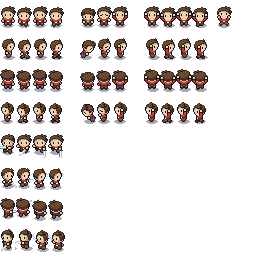
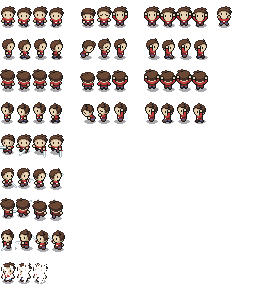
Death animation for enemies and player
missing restart game

diff --git a/Game.cpp b/Game.cpp
@@ -40,11 +40,11 @@ int main()
     coinCounter.setCharacterSize(48);  
     coinCounter.setColor(sf::Color::Red);
 
-    Player p("Lapis", 500, 12, "img/character.png");
-    auto e = make_shared<Enemy>("vila", 50, 12, "img/log.png", &p); 
+    Player p("Lapis", 50, 12, "img/character.png");
+    auto e = make_shared<Enemy>("vila", 20, 12, "img/log.png", &p); 
     enemies.push_back(e);
     for(int i = 0; i < 3; i++)
-        enemies.emplace_back(new Enemy("vila", 50, 12, "img/log.png", &p));
+        enemies.emplace_back(new Enemy("vila", 20, 12, "img/log.png", &p));
 
     std::vector<shared_ptr<Coin>> coins;
 
@@ -141,8 +141,8 @@ int main()
         std::uniform_int_distribution<> poss(0, 300);
 
         Vector2f pos = Vector2f(distr(gen), distr(gen));
-        if(poss(gen) > 292 && enemies.size() <= 25)
-            enemies.emplace_back(new Enemy("vila", 50, 12, "img/log.png", &p, pos));
+        if(poss(gen) > 297 && enemies.size() <= 8)
+            enemies.emplace_back(new Enemy("vila", 30, 20, "img/log.png", &p, pos));
 
         for(int i = enemies.size()-1; i >= 0; i--)
         {
@@ -165,7 +165,7 @@ int main()
             for(int i = 0; i < enemies.size(); i++)
             {
                 enemies[i]->draws(window);     
-                p.interact(enemies[i]);    
+                p.interact(enemies[i]);
             } 
             for(int i = coins.size()-1; i >= 0; i--)
             {

diff --git a/Entity.cpp b/Entity.cpp
@@ -11,7 +11,13 @@ using namespace std;
 
 class Entity : public AnimatedSprite
 {
+private:
+    int redTime = 0;
+    int deathState = 0;
+    int deathTime = 40;
 public:
+    int redBlinking = 20;
+    int deathOffset = 4;
     string name; 
     float atk; 
     float life;
@@ -48,15 +54,41 @@ public:
         velocity.y = 0;
     }
 
-    void hit()
+    void hit(bool knockback, int damage)
     {
-        setColor(Color::Red);
-        life-=4;
-        move(-velocity.x * 3, -velocity.y * 3);
+        if(!redTime)
+        {
+            setColor(Color::Red);
+            redTime = redBlinking;
+            life-=damage;
+        }
+        if(knockback)
+            move(-velocity.x * 1.5, -velocity.y * 1.5);
     }
 
     void update()
     {
+
+        if(life<=0)
+            animatingDeath = true;
+        if(animatingDeath )
+        {
+            if(!deathTime--)
+            {
+                setColor(Color::White);
+                setTextureRect(IntRect(deathState * 16, 32 * deathOffset, 16, 32));
+                deathState++;
+                if(deathState == 4)
+                    setVisibility(false);
+                deathTime = 5;
+            }
+            return;
+        }
+
+        if(redTime > 0)
+            redTime--;
+        else 
+            setColor(Color::White);
         AnimatedSprite::update();
         move(velocity.x * speed, velocity.y * speed);
     } 

diff --git a/AnimatedSprite.cpp b/AnimatedSprite.cpp
@@ -27,6 +27,7 @@ public:
     Vector2f velocity = Vector2f(0,0);
     int yOffset = 0;
     bool attacking = false;
+    bool animatingDeath = false;
 
 public:
     AnimatedSprite(){};
@@ -61,6 +62,8 @@ public:
 
     void animate()
     {
+        if(animatingDeath )
+            return;
         if(velocity.x == 0)
         {
             if(velocity.y == 1)
@@ -109,26 +112,23 @@ public:
         if(!attacking)
             attackState = 0;
         
-        if(attackCooldown--)
+        if(!attackTime--)
         {
-            if(!attackTime--)
+            if(attacking)
             {
-                if(attacking)
-                {
-                    attackState++;
-                    if(attackState == 3)
-                    {
-                        attackState = 0;
-                        attackCooldown = attackSpeed;
-                    }
-                }
-                else 
+                attackState++;
+                if(attackState == 3)
                     attackState = 0;
-
-                animate();
-                attackTime = attackMaxTime;
             }
+            else 
+                attackState = 0;
+
+            animate();
+            attackTime = attackSpeed;
         }
+
+        
+        
     } 
 
     void draws(sf::RenderTarget &window)

diff --git a/Player.cpp b/Player.cpp
@@ -14,7 +14,7 @@ using namespace std;
 class Player : public Entity
 {
 private:
-    int range = 45;
+    int range = 50;
 public:
     int coins = 0;
     // INHERITED ENTITY FIELDS 
@@ -27,6 +27,9 @@ public:
     {
         attackSpeed = 20;
         speed = 3;
+        atk = 10;
+        redBlinking = 50;
+        deathOffset = 8;
     } 
 
     void interact(shared_ptr<Entity> e)
@@ -35,16 +38,18 @@ public:
         Vector2f ePos = e->getPosition();
         if(abs(pos.x-ePos.x) < range && abs(pos.y-ePos.y) < range)
             if(attacking && attackState == 1)
-                e->hit();
+                e->hit(true, atk);
         if (abs(pos.x-ePos.x) < 20 && abs(pos.y-ePos.y) < 20)
-            life--;
+            hit(false, e->atk);
     }
 
     void update()
     {
-        if(this->life < 0) 
-            setVisibility(false);
-            // WILL BE GAME OVER
+        if(life <= 0)
+        {
+            setScale(10,10);
+            //end game
+        }
         Entity::update();
     } 
 }; 

diff --git a/Enemy.cpp b/Enemy.cpp
@@ -28,17 +28,12 @@ public:
 
         setPosition(distr(gen), distr(gen));
         this->target = target;
-        speed = 0.8;
+        speed = 0.7;
+        this->atk = attack;
     } 
 
     void update()
     {
-        if(life<0)
-        {
-            setVisibility(false);
-            return;
-        }
-
         Vector2f pos = getPosition();
         Vector2f tarPos = target->getPosition();
      
